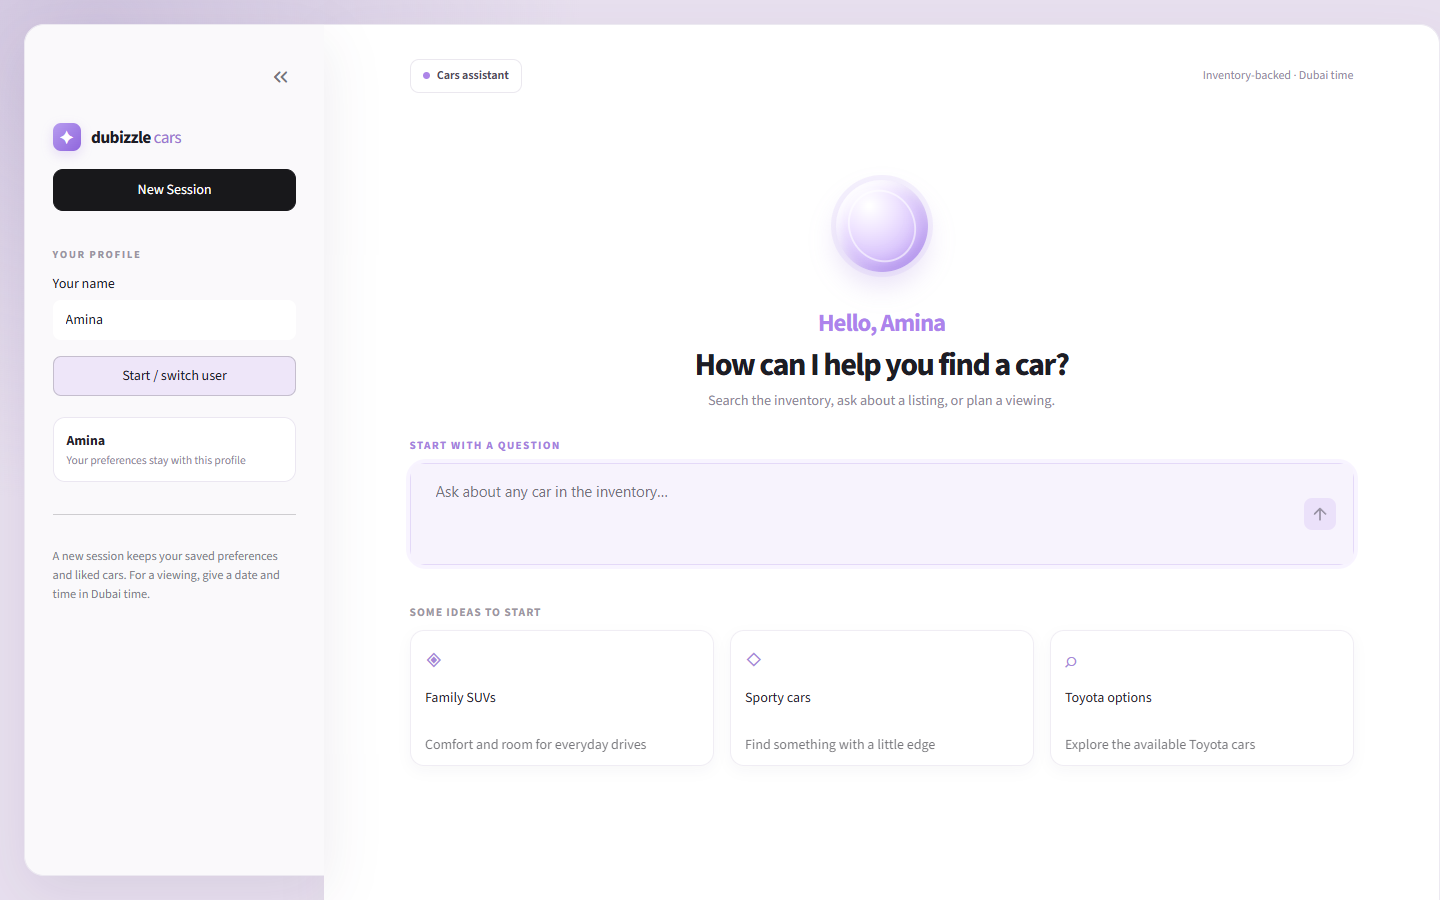
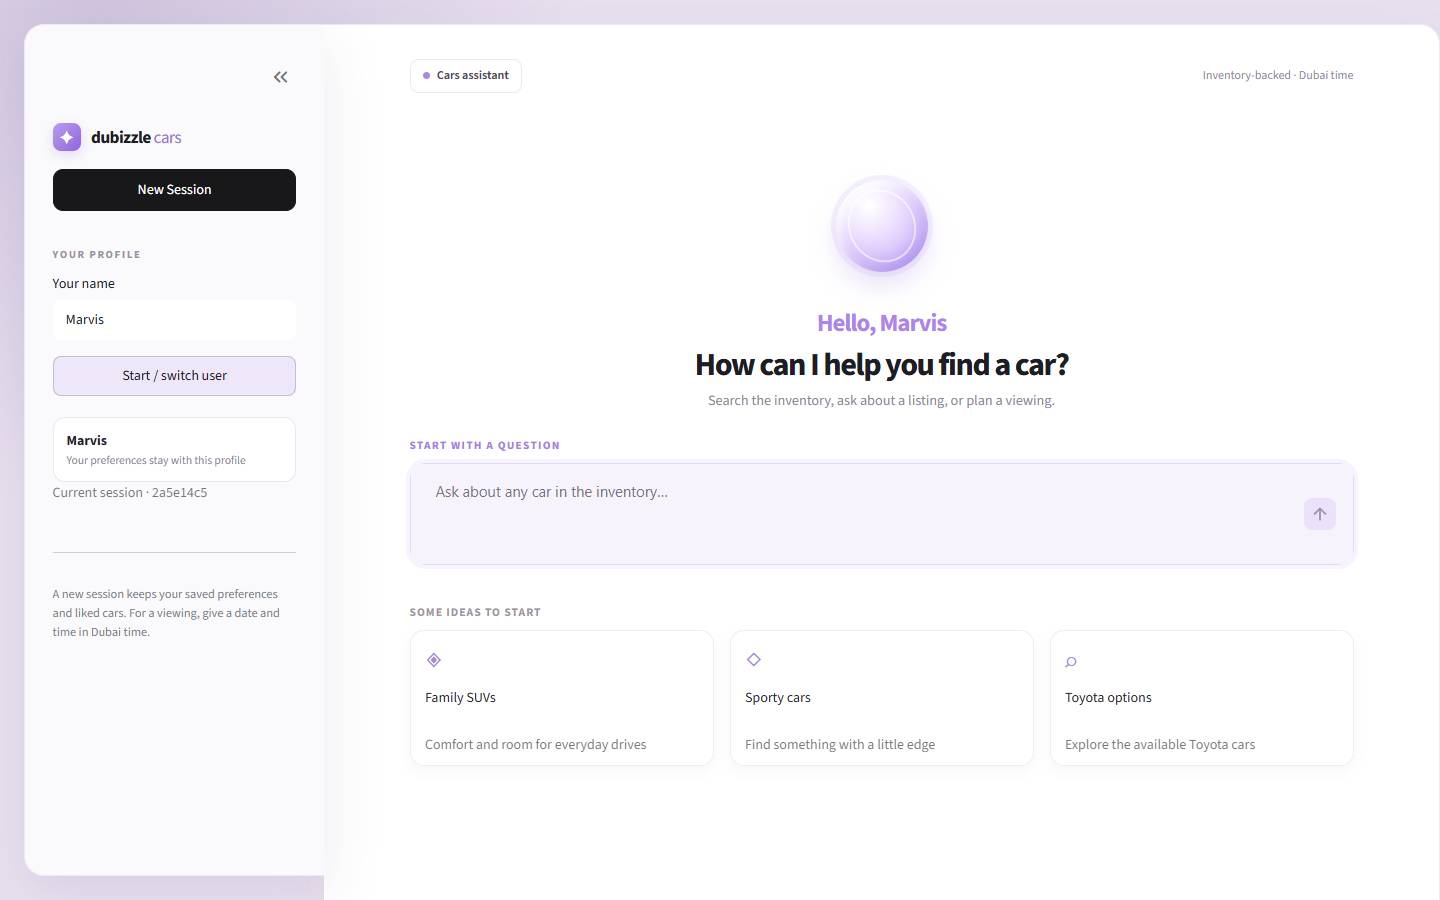
Document take-home demo and fix preference recall

diff --git a/app/services/agent.py b/app/services/agent.py
@@ -18,6 +18,7 @@ from app.services.agent_policy import (
     LIKE_RE,
     NON_AED_RE,
     PHONE_RE,
+    PREFERENCE_RE,
     SEARCH_RE,
     allowed_preference_updates,
     amount_mentioned,
@@ -233,6 +234,34 @@ class ChatAgent:
         except ValidationError:
             return None
 
+    def _explicit_preference_updates(self, message: str) -> dict:
+        """Retain stated preferences even when the tool planner misses them."""
+        if not PREFERENCE_RE.search(message):
+            return {}
+        makes, _ = self.tools.inventory_catalog()
+        candidates: dict = {}
+        stated_makes = [
+            make
+            for make in makes
+            if re.search(r"(?<!\w)" + re.escape(make) + r"(?!\w)", message, re.I)
+        ]
+        if stated_makes:
+            candidates["preferred_makes"] = stated_makes
+        body = re.search(
+            r"\b(?:SUVs?|sedans?|coupes?|hatchbacks?|pickups?|convertibles?|wagons?)\b",
+            message,
+            re.IGNORECASE,
+        )
+        if body:
+            body_name = body.group().removesuffix("s").removesuffix("S")
+            candidates["preferred_body_type"] = (
+                "SUV" if body_name.casefold() == "suv" else body_name.title()
+            )
+        budget = re.search(r"\bAED\s*([\d,]+)\b", message, re.IGNORECASE)
+        if budget and not NON_AED_RE.search(message):
+            candidates["budget_max_aed"] = int(budget.group(1).replace(",", ""))
+        return allowed_preference_updates(message, candidates)
+
     @staticmethod
     def _slot(raw: object, message: str) -> datetime | None:
         if not isinstance(raw, str) or not re.search(
@@ -331,11 +360,15 @@ class ChatAgent:
         if reference_error:
             self.tools.memory.record_turn(body.session_id, message, reference_error)
             return ChatResponse(message=reference_error, session_id=body.session_id)
+        asks_liked = bool(LIKED_MEMORY_RE.search(message))
+        asks_preferences = bool(PREFERENCE_MEMORY_RE.search(message))
         memory_kind = (
-            "liked"
-            if LIKED_MEMORY_RE.search(message)
+            "all"
+            if asks_liked and asks_preferences
+            else "liked"
+            if asks_liked
             else "preferences"
-            if PREFERENCE_MEMORY_RE.search(message)
+            if asks_preferences
             else "all"
             if GENERAL_MEMORY_RE.search(message)
             else None
@@ -347,6 +380,21 @@ class ChatAgent:
         )
         allowed_names = {tool["function"]["name"] for tool in TOOLS}
         calls = [call for call in calls if call.name in allowed_names]
+        explicit_preferences = (
+            self._explicit_preference_updates(message) if not memory_kind else {}
+        )
+        if explicit_preferences:
+            calls = [
+                call
+                for call in calls
+                if call.name not in {"update_user_preferences", "get_user_memory"}
+            ]
+            calls.insert(
+                0,
+                ToolCall(
+                    "update_user_preferences", {"updates": explicit_preferences}
+                ),
+            )
         names = {call.name for call in calls}
         if BOOKING_RE.search(message):
             # Viewing requests reach the slot validator when the planner misses them.
@@ -393,6 +441,14 @@ class ChatAgent:
         search_ids = active_filters = selected_id = None
         booking_recorded = False
         lead_data: dict = {}
+        for source, target in (
+            ("preferred_makes", "desired_make"),
+            ("preferred_body_type", "desired_body_type"),
+            ("budget_max_aed", "budget_max_aed"),
+        ):
+            value = explicit_preferences.get(source)
+            if value:
+                lead_data[target] = value[0] if source == "preferred_makes" else value
         for call in calls[:5]:
             args = call.arguments
             if call.name == "search_inventory":

diff --git a/tests/test_agent.py b/tests/test_agent.py
@@ -179,6 +179,33 @@ class AgentTests(unittest.TestCase):
         self.assertNotIn("BMW", isolated["message"])
         self.assertNotIn("CAR_0002", isolated["message"])
 
+    def test_explicit_preference_survives_wrong_plan_and_combined_recall(self) -> None:
+        saved = self.ask(
+            "I generally prefer Honda SUVs and my budget is AED 150,000",
+            [ToolCall("get_user_memory", {})],
+        )
+        self.assertIn("saved", saved["message"])
+        profile = self.memory.get_user_memory("user-a")
+        self.assertEqual(profile.preferred_makes, ["Honda"])
+        self.assertEqual(profile.preferred_body_type, "SUV")
+        self.assertEqual(profile.budget_max_aed, 150000)
+        lead = self.leads.get_lead("user-a")
+        self.assertEqual(lead["budget_max_aed"], 150000)
+        self.assertEqual(lead["desired_make"], "Honda")
+
+        self.search_hondas()
+        self.ask("I like the second car", [])
+        new_session = self.memory.create_session("user-a", "Amina").session_id
+        recalled = self.ask(
+            "What preferences did I tell you, and which car did I like?",
+            [],
+            new_session,
+        )
+        self.assertIn("Honda", recalled["message"])
+        self.assertIn("SUV", recalled["message"])
+        self.assertIn("AED 150,000", recalled["message"])
+        self.assertIn("CAR_0002", recalled["message"])
+
     def test_named_user_nissan_preference_and_second_car_across_sessions(self) -> None:
         identity = self.api.post("/users", json={"display_name": "Test User"})
         self.assertEqual(identity.status_code, 200, identity.text)

diff --git a/README.md b/README.md
@@ -1,139 +1,68 @@
-# Dubizzle cars assistant
+# Dubizzle Cars AI Assistant
 
-This repository implements the **inventory pipeline, retrieval service, FastAPI backend, conversational agent, and Streamlit client** for the car assistant. The canonical source is `data/processed/cars_merged.xlsx`, sheet `merged_inventory` (189 vehicles). The supplied `Cars_data.xlsx` and generated inventory files are kept local because seller descriptions contain contact numbers; they are not included in this public repository.
+A FastAPI car-search assistant with a Streamlit chat client. [Try the hosted demo](https://app-dubizzle-case-study-48ew9fpqpk2dou4ybavz2g.streamlit.app/) (a cold start can take over a minute).
 
-## Setup
+## Quick start
 
-Install [uv](https://docs.astral.sh/uv/getting-started/installation/) and run:
+You need Python 3.13, [uv](https://docs.astral.sh/uv/getting-started/installation/), the supplied `Cars_data.xlsx`, and credentials for PostgreSQL, Qdrant, and the NVIDIA embedding and chat APIs. Put `Cars_data.xlsx` in this folder. It is excluded from the repository because seller descriptions contain contact numbers.
+
+Create a local `.env` file (gitignored). Use a full PostgreSQL URI for `Supabase_Link`:
+
+```text
+Supabase_Link=postgresql://USER:PASSWORD@HOST:5432/postgres
+Vector_DB_Endpoint=https://YOUR-QDRANT-ENDPOINT
+Vector_DB_Key=YOUR-QDRANT-KEY
+nvidia_embed_model_key=YOUR-NVIDIA-KEY
+nvidia_LLM_model_key=YOUR-NVIDIA-KEY
+```
+
+If `Supabase_Link` contains only a host, also set `Supabase_Pass`, `user`, `port`, and `database`. URL-encode reserved characters in passwords inside a full URI. Use your own keys; never commit `.env`.
+
+Run these commands from the project folder:
 
 ```powershell
 uv sync
-```
-
-If `uv` is not on your Windows `PATH`, use `py -m uv` in place of `uv` in the commands below.
-
-Create a local `.env` (gitignored) with these values:
-
-```text
-Supabase_Link=<PostgreSQL host or connection URI>
-Supabase_Pass=<database password>
-port=5432
-database=postgres
-user=<database user>
-nvidia_embed_model_key=<NVIDIA API key>
-nvidia_LLM_model_key=<NVIDIA chat API key>
-Vector_DB_Endpoint=<Qdrant HTTPS endpoint>
-Vector_DB_Key=<Qdrant API key>
-```
-
-When `Supabase_Link` is a full PostgreSQL URI, it is authoritative for the connection, including its username, password, port, database, and query options. If it is only a hostname, the separate `Supabase_Pass`, `user`, `port`, and `database` settings are required; SQLAlchemy safely encodes reserved characters in that password. The NVIDIA chat key is required for `/chat`. For Supabase shared session pooling, copy the URI from the project's Connect dialog. [Supabase documents the connection modes and IPv4 support](https://supabase.com/docs/guides/database/connecting-to-postgres).
-
-Optional environment settings: `NVIDIA_EMBED_MODEL`, `NVIDIA_EMBED_URL`, `NVIDIA_LLM_MODEL`, `NVIDIA_LLM_URL`, `NVIDIA_EMBED_BATCH_SIZE`, `NVIDIA_REQUESTS_PER_MINUTE` (capped at 40), and `QDRANT_COLLECTION`. The default collection is the existing `Dubizzle-collection`; set `QDRANT_COLLECTION` for another deployment. No credentials are written to code or logs.
-
-## Import and search
-
-Place your supplied `Cars_data.xlsx` in the repository root. Generate the local canonical inventory before ingestion or running the full inventory tests:
-
-```powershell
 uv run python -m scripts.prepare_inventory
 uv run python -m scripts.ingest_inventory
-uv run python -m scripts.search_inventory "comfortable family SUV" --top-k 5
 uv run python -m unittest discover -s tests -q
 ```
 
-Start the API after ingestion:
+Start the backend in one terminal:
 
 ```powershell
 uv run uvicorn app.main:app --reload
 ```
 
-In a second terminal, start the Streamlit client:
+Start the client in a second terminal:
 
 ```powershell
 uv run streamlit run streamlit_app.py
 ```
 
-Open `http://localhost:8501`. The client calls `http://127.0.0.1:8000` by default. To use another API host, set `FASTAPI_URL` in the environment or local `.env` before starting Streamlit. Enter your name, then choose **Start / switch user**. Streamlit calls `POST /users` to create or retrieve a UUID user and `POST /sessions` to start a conversation. **New Session** keeps that UUID, creates a new backend session, and clears only the displayed conversation; saved preferences and liked cars remain in PostgreSQL. Viewing requests are made in chat using Dubai date and time. Streamlit stores only display history and the active user/session IDs; FastAPI owns all search, memory, lead, and booking rules. Entering the same normalized name after a browser reload retrieves the same demo profile. Name-only identity does not authenticate a person: anyone who enters that name can access its saved profile. Deployment with real users needs authentication.
+Open `http://localhost:8501`, enter a name, and select **Start / switch user**. The API runs at `http://127.0.0.1:8000`; check `/health` for `ready` and `/docs` for the API. Set `FASTAPI_URL` in the Streamlit environment or `.env` if the backend uses another address. To demonstrate memory, state a preference, like a shown car, select **New Session**, and ask what the assistant remembers.
 
-## Deploy FastAPI on Render and Streamlit on Community Cloud
+## Design and scope
 
-Create a Render **Python web service** from the repository's `dev` branch, with the repository root as its root directory. The committed `uv.lock` lets Render provide `uv`; `.python-version` pins Python 3.13. Use:
+I chose Streamlit for a lightweight reactive chat UI and kept search, memory, leads, and booking rules in FastAPI. There is no separate agent framework: a small Python controller uses NVIDIA Nemotron tool calls and validates them before acting. PostgreSQL applies exact filters and supplies the vehicle facts; Qdrant ranks eligible listing IDs for fuzzy queries. PostgreSQL stores recent conversation state and persistent user preferences, which lets a new session recall a returning user without trusting the browser as the source of truth.
 
-```text
-Build Command: uv sync --locked --no-dev
-Start Command: uv run --no-sync uvicorn app.main:app --host 0.0.0.0 --port $PORT
-```
+The backend returns supplied listing IDs, marks missing prices or mileage as unknown, exports qualified leads to local `data/leads.csv`, and records only simulated viewing requests for Monday–Saturday, 08:00–20:00 Dubai time. The workbook has no managed-car flag, so this prototype treats every supplied listing as eligible. Future work would add authentication, real slot availability, durable hosted lead export, verified body-style attributes, and a labelled search-relevance evaluation set.
 
-Configure these Render environment variables with your own values: `Supabase_Link`, `Vector_DB_Endpoint`, `Vector_DB_Key`, `nvidia_embed_model_key`, and `nvidia_LLM_model_key`. If `Supabase_Link` is a host rather than a PostgreSQL URI, also set `Supabase_Pass`, `user`, `port`, and `database`. Run inventory preparation and ingestion locally against the same PostgreSQL and Qdrant services before deployment; the public repository does not include the seller data. Check `/health` for `ready`. The API stores users, sessions, preferences, liked cars, messages, bookings, and leads in PostgreSQL. Its local lead CSV is an export on Render's temporary filesystem.
+## Required conversation evidence
 
-On Streamlit Community Cloud, select the same repository and `dev` branch with `streamlit_app.py` as the main file. In the app's Secrets settings, add a root-level value such as `FASTAPI_URL = "https://your-render-service.onrender.com"`. Streamlit exposes root-level secrets as environment variables, which the client reads. Keep database and provider keys on Render only.
+These screenshots use the name **Marvis** and were captured from the local client and backend against the same 189-car PostgreSQL and Qdrant inventory as the hosted demo.
 
-API docs are at `/docs`. The current routes are `GET /health`, `POST /users`, `POST /sessions`, `GET /sessions/{session_id}`, `GET /cars/{listing_id}`, `POST /cars/search`, `POST /bookings`, and `POST /chat`. Search accepts `structured`, `semantic`, or `hybrid` mode; for example:
+![Marvis starts a session](docs/streamlit_welcome.png)
 
-```json
-{
-  "mode": "hybrid",
-  "filters": {"make": "Toyota", "min_year": 2020},
-  "semantic_query": "comfortable family car",
-  "top_k": 5
-}
-```
+![Marvis saves a preference and explores Toyota listings](docs/streamlit_results.png)
 
-Hard filters run against PostgreSQL. Qdrant ranks only SQL-eligible IDs, and final results are reloaded from PostgreSQL. Supported structured filters are make, model, trim, source, exact/min/max year, and min/max AED price or kilometre mileage. The workbook has no dedicated price or mileage column, but some descriptions state those values. Conservative source-text extraction now populates 39 AED purchase prices and 88 odometer readings, each with an evidence excerpt. Monthly payments, fees, speed, electric range, warranty limits, and service intervals are excluded. Unknown values remain null and cannot satisfy a hard numeric filter.
+![Marvis asks follow-up questions about the second car and likes it](docs/streamlit_followup.png)
 
-`POST /sessions` generates and stores a new UUID when `user_id` is omitted; passing an existing ID starts another session for that user. `POST /chat` accepts a message and returns a grounded answer, matching cars, listing IDs, and an optional follow-up prompt. It checks any supplied `user_id` against the session owner. `POST /bookings` and conversational bookings validate Monday–Saturday, 08:00–20:00 Dubai time and record a **simulated request** as `pending_confirmation`; slot availability and a real dealer reservation are not confirmed.
+![A completely new session recalls Marvis's preferences and liked cars](docs/streamlit_memory.png)
 
-`POST /users` accepts `{"display_name":"Test User"}` and returns a stable UUID and display name. It reuses a unique older profile with the same normalized name; ambiguous older names receive a fresh mapped profile.
+In session one, Marvis saved a Toyota SUV preference and AED 150,000 budget, searched the inventory, asked about the second result (`CAR_0047`), asked whether it had a warranty, and liked it. In a **new session** with a different session ID, the assistant recalled the Toyota, SUV, and budget preferences along with liked cars. `CAR_0060` in that screenshot was liked during an earlier check of the same demo profile.
 
-Example chat request after creating a session:
+## Verification and current limits
 
-```json
-{"user_id":"<returned user ID>","session_id":"<created session ID>","message":"Show me something sporty and comfortable"}
-```
+The local test suite passed **50 tests** on 24 September 2026. It covers retrieval, multi-turn references, returning-user memory, lead CSV writing, viewing hours, and out-of-scope requests. The API health check reported 189 cars and 189 vectors. The hosted app accepted Marvis and returned inventory matches, but its currently deployed backend answered the combined preference-and-liked-car recall question with liked cars only. The local backend fix shown above must be published and redeployed for the hosted flow to match these screenshots.
 
-The [NVIDIA Nemotron 3 Super 120B](https://docs.api.nvidia.com/nim/reference/nvidia-nemotron-3-super-120b-a12b-infer) chat model chooses allowlisted backend tools. Python checks tool arguments against the user's words and session state, resolves numbered and pronoun references, validates bookings, and renders vehicle answers from PostgreSQL. Session messages, last search IDs, selected car, and temporary filters live in PostgreSQL. Explicit long-term preferences and liked cars persist by user ID across sessions. Leads are upserted to PostgreSQL and exported to gitignored `data/leads.csv`. Chat context uses at most eight recent messages, compact state, and the long-term profile.
-
-`--postgres-only` loads factual records when Qdrant is unavailable. The full command upserts all 23 canonical workbook columns to PostgreSQL `cars` and stores per-listing vector state in `car_embedding_state`. Qdrant holds one deterministic point ID per listing with a `listing_id`, small filterable fields, model ID, and embedding hash. Search embeds the query once, searches Qdrant, then fetches complete records from PostgreSQL in result order.
-
-Embeddings use `embedding_text` only. The default [NVIDIA Nemotron 3 Embed 1B](https://docs.api.nvidia.com/nim/reference/nvidia-nemotron-3-embed-1b) supports English and Arabic and returns 2048 dimensions. Its [hosted API](https://docs.api.nvidia.com/nim/reference/nvidia-nemotron-3-embed-1b-infer) requires `passage` mode for listings and `query` mode for searches. A live check on 24 September 2026 accepted all 189 current texts in one call; the default batch size is therefore 189. This is a tested size for this workbook, not a published provider maximum. Oversized batches are split if the endpoint returns 413 or 422. A shared local rolling limiter caps NVIDIA calls at 40/minute; 429 and transient failures use bounded retries and `Retry-After`.
-
-Reruns skip embeddings when the Qdrant point already has the same text hash and model. A batch's PostgreSQL vector state is committed only after Qdrant acknowledges the upsert. The final audit checks source and database counts, text preservation, unique listing IDs, vector count, ID references, deterministic point IDs, and collection dimensions. Existing tables and collections are never dropped.
-
-The older `data/processed/cars_merged.csv` is an equivalent export, but the workbook sheet is the required input for this pipeline. `preprocess_inventory.py` and its cleaned-sheet-only output are exploratory and are not imported.
-
-## Verified live run (24 September 2026)
-
-The first run imported 189 PostgreSQL cars and indexed 189 Qdrant points with zero failures. The second run reported `Embeddings Requested: 0`, `Embeddings Skipped Unchanged: 189`, and `Qdrant Vector Count: 189`. An Arabic semantic query returned three listing IDs and retrieved their complete records from PostgreSQL. The verifier compares all workbook columns with the stored records and checks Qdrant IDs, counts, and vector dimensions.
-
-The retrieval and conversational backend passed 43 offline tests on 24 September 2026. A live retrieval check returned 12 Toyota listings from 2020 onward, five semantic results with PostgreSQL records, and five hybrid results that all obeyed the Toyota/year constraints. After source-text extraction, PostgreSQL contains 39 known prices and 88 known mileages; a price filter of AED 100,000 or less returns 18 listings. Re-ingestion requested zero new embeddings and left all 189 Qdrant vectors unchanged. `/health` reported `ready` with 189 cars and 189 vectors. A live NVIDIA chat check returned Toyota listings, resolved “the second one,” reported missing warranty, and recalled a saved BMW preference in a new session. Ranking relevance needs a separate evaluation set.
-
-
-## Streamlit client verification (24 September 2026)
-
-![Streamlit welcome view](docs/streamlit_welcome.png)
-
-![Streamlit results view](docs/streamlit_results.png)
-
-The UI ran locally at `http://127.0.0.1:8501` against FastAPI at `http://127.0.0.1:8000`; `/health` reported `ready` with 189 inventory rows and 189 vectors. The following are excerpts from live UI interactions using test user IDs:
-
-```text
-Session 1
-User: Show me Toyota cars
-Assistant: 1. CAR_0031; 2. CAR_0047; 3. CAR_0078; ...
-User: Tell me more about the second one
-Assistant: CAR_0047 ... A cash price is not listed; verified mileage is not listed.
-User: Does it have a warranty?
-Assistant: CAR_0047 ... warranty is not listed as a verified vehicle detail.
-
-Separate returning-user check, session 1
-User: I generally prefer BMW SUVs
-Assistant: I've saved that vehicle preference.
-User: I like that one
-Assistant: I've saved CAR_0079 to your liked cars.
-
-Same user ID, completely new session
-User: What was I looking for before, and which car did I like?
-Assistant: I remember your name is Live Demo; preferred makes: BMW; liked cars: CAR_0079; body type: SUV.
-```
-
-The live UI also returned supplied IDs for a fuzzy request ("sporty and comfortable") and a mixed Toyota/year/comfort request; returned no cars for an impossible AED 1 budget; declined a programming request; recorded a simulated Saturday 10:00 viewing request; and rejected Sunday and 21:00 requests. A browser run with **Test User** saved "I prefer Nissan SUVs," searched, liked the second result, started a new session, and recalled both the preference and liked listing. The session ID changed while `/users` returned the same UUID for a normalized name variant. Component tests cover missing images, missing price/mileage, unavailable API, timeout, and empty API replies. The local test suite passed 49 tests. Streamlit sends all chat turns to `POST /chat`; it contains no retrieval, memory, or booking validation logic. The "Nissan SUVs" live search also returned some Nissan sedans because body type is not a verified hard filter in the current inventory; body-style provenance needs review before it can be enforced as a factual constraint.
+The assignment directs applicants to use a Google AI Studio API key; this implementation uses NVIDIA API keys instead, so that substitution needs to be accepted by the evaluator. Body style is not a verified hard filter, so an SUV request can include other vehicle types until the source data supports that filter. Name-only identity is suitable for a demo, not a real user account.
